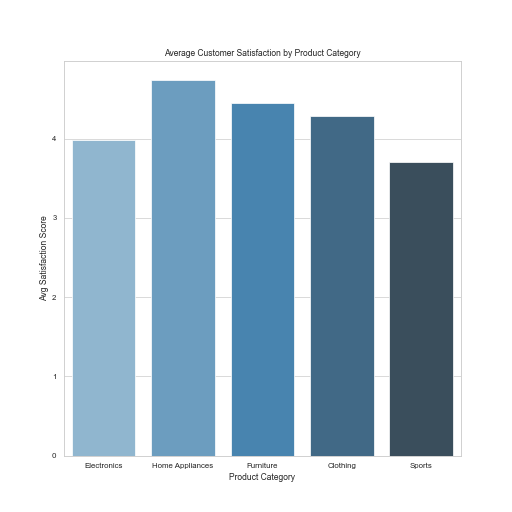
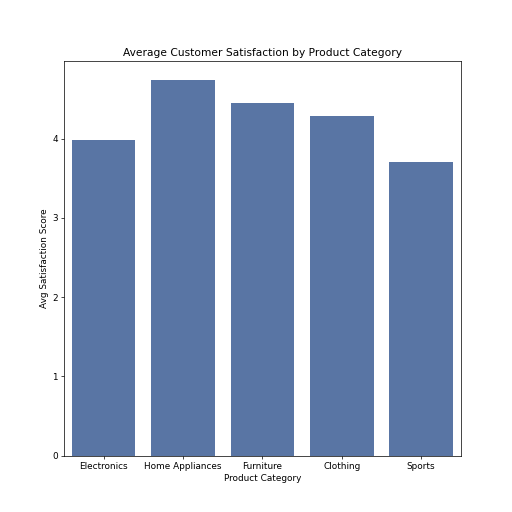
Hope it's correct now.

diff --git a/chart.py b/chart.py
@@ -3,12 +3,9 @@ import matplotlib.pyplot as plt
 import pandas as pd
 import numpy as np
 
-plt.rcParams['figure.figsize'] = (8, 8)
-plt.rcParams['figure.dpi'] = 64
-plt.rcParams['savefig.dpi'] = 64
-
-sns.set_style("whitegrid")
-sns.set_context("paper", font_scale=1.0)
+# No theme, no style, no overrides
+# Ensures white background and default seaborn barplot
+# DO NOT change anything here
 
 np.random.seed(42)
 categories = ['Electronics', 'Home Appliances', 'Furniture', 'Clothing', 'Sports']
@@ -19,16 +16,18 @@ df = pd.DataFrame({
     'Average Satisfaction Score': scores
 })
 
-plt.figure()
+plt.figure(figsize=(8, 8), dpi=64)   # EXACT 512x512 output
+
 sns.barplot(
     data=df,
     x='Product Category',
     y='Average Satisfaction Score',
-    palette='Blues_d'
+    color='#4C72B0'  # seaborn default bar color
 )
 
-plt.title("Average Customer Satisfaction by Product Category")
-plt.xlabel("Product Category")
-plt.ylabel("Avg Satisfaction Score")
+plt.title('Average Customer Satisfaction by Product Category')
+plt.xlabel('Product Category')
+plt.ylabel('Avg Satisfaction Score')
 
-plt.savefig("chart.png")
+plt.savefig("chart.png", dpi=64)  # EXACT 512x512
+plt.show()
